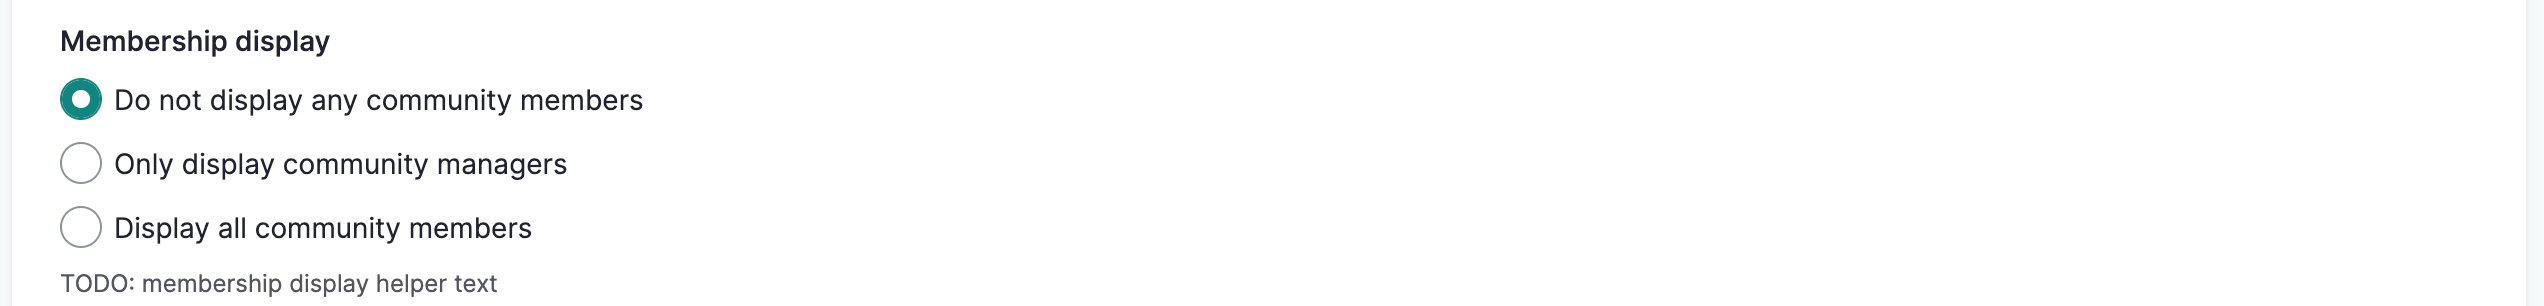
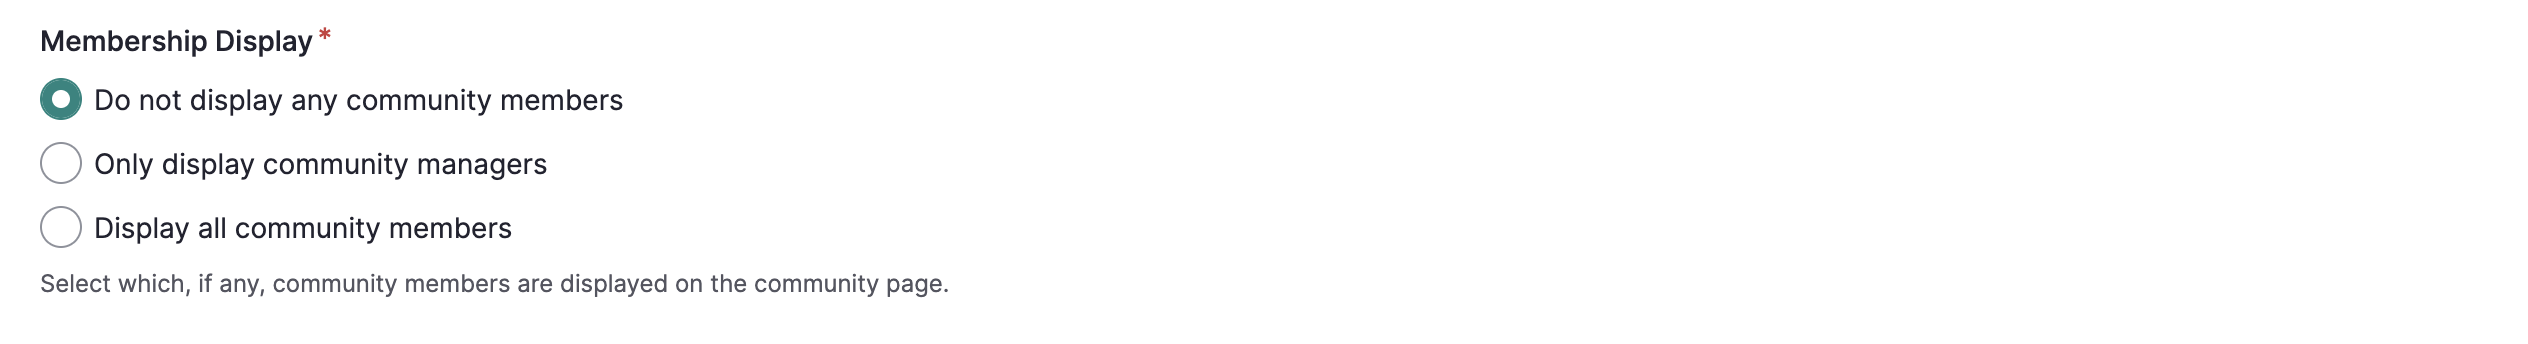
Screenshot updates and text changes
New screenshots reflecting helper text changes. I also removed any text that stated that active users only would be showing up in search.

diff --git a/docs/communities-cultural-protocols-categories/CreateACommunityAndInitialCulturalProtocol.md b/docs/communities-cultural-protocols-categories/CreateACommunityAndInitialCulturalProtocol.md
@@ -39,8 +39,6 @@ In Mukurtu 4, creating a new community will automatically prompt you to create a
 
 At this point, you have the option to add community members and assign user roles. If you are currently unsure about role assignments, or you have not yet created the necessary user accounts, you can select "Save" at the top of the page and manage the community membership later. If you do this, you will not be able to add protocol members on the next page, as protocols are populated using the community membership. Group memberships can be edited at any time from their respective manage pages. See [Manage Community Members](../communities-cultural-protocols-categories/ManageCommunityMembershipAndRoles.md) and [Manage Protocol Members](../communities-cultural-protocols-categories/ManageProtocolMembershipandRoles.md) for more information.
 
-!!! tip
-    Only site users with the active status can be added to a community. Blocked or pending users cannot be added from this form.
 
 ### Add community members and assign roles  
 
@@ -48,7 +46,7 @@ Under Community Members, the role descriptions section describes community roles
 
 ![The community role descriptions](../_embeds/create-community-05.png)
 
-1. To add new members, use the search bar to search for users. All active users will display, and username will auto-filter as you type. 
+1. To add new members, use the search bar to search for users. All users will display, and username will auto-filter as you type. 
 
     ![The member search bar with a user name partially entered, actively filtering users](../_embeds/create-community-07.png)
 
@@ -132,7 +130,7 @@ Once you have created a community, you will be directed to create a cultural pro
 
     ![A sreenshot of the top of the protocol form, with two buttons with a red box around them. One button says save and create another protocol. The other button says save.](../_embeds/create-community-12.png)
 
-This is the manage community page with the confirmation message displayed. From this page you can edit your community, manage membership, manage the look and feel of the page, add cultural protocols, and manage Local Contexts labels and notices. Equivalent pages also exist for protocols. They allow for similar management by protocol stewards.
+This is the manage community page with the confirmation message displayed. From this page you can edit your community, manage membership, manage the look and feel of the page, add cultural protocols, and manage Local Contexts labels and notices. Equivalent pages also exist for protocols, which are accessible in the "Cultural Protocols" section or from the dashboard. They allow for similar management by protocol stewards.
  
  ![A screenshot of the community manage page with a confirmation message](../_embeds/create-community-13.png)
 
